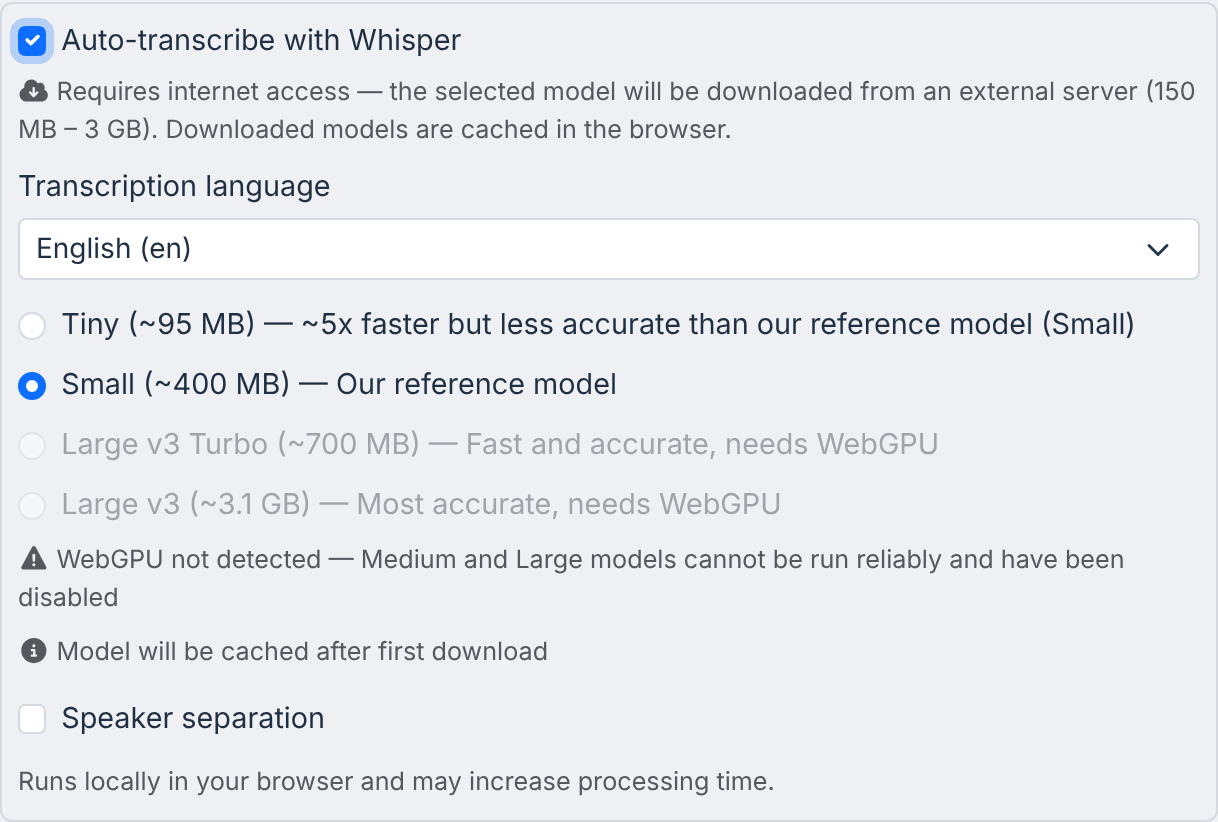
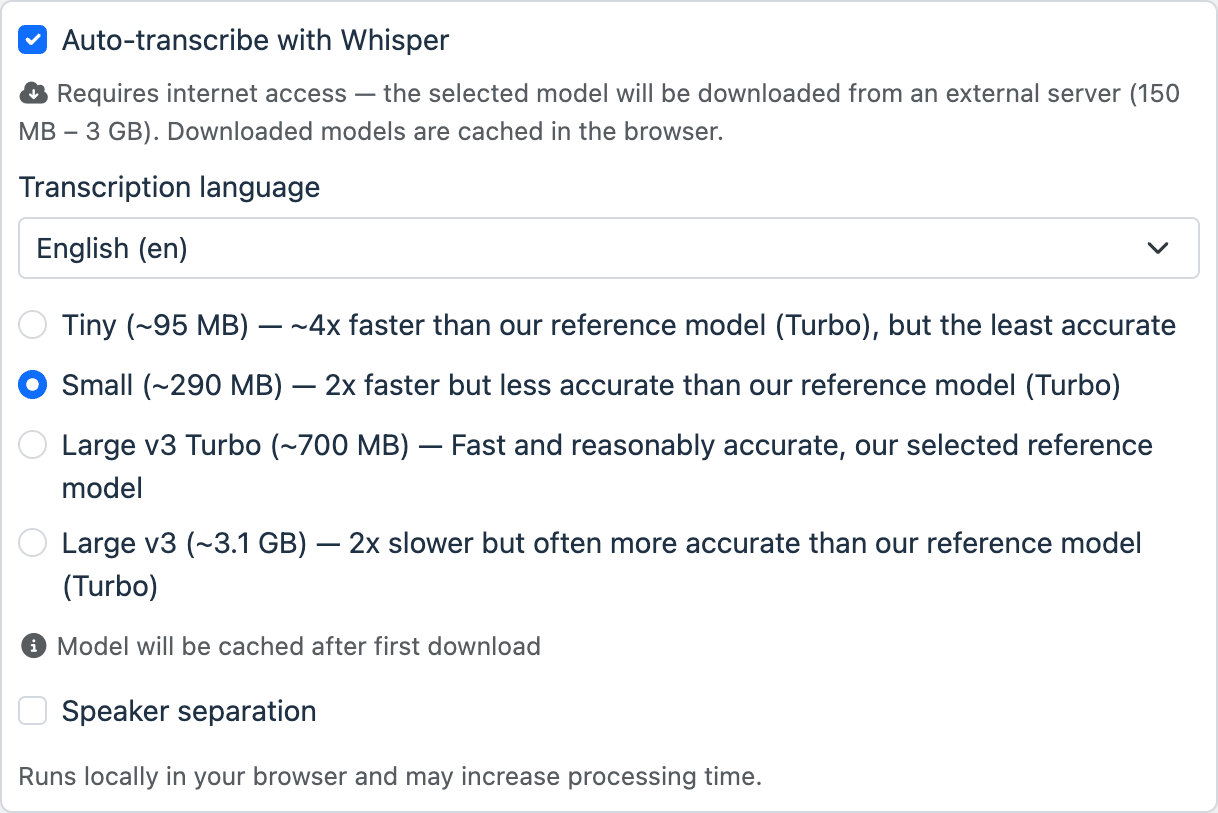
docs(manual): correct the tier menu and the Whisper model panel
The tier menu's "Add empty level" and "Add translated tier…" are not visible
entries: they sit behind the + button at the foot of the menu (navbar.component
.html, the ngbDropdown on .level-add-row). The bin icon is rendered only when
levels.length > 1, so with a single tier there is nothing to delete. Both tables
now say so, in English and Swedish.

Re-shoots visp_tratt_auto_transcription_options.png in a browser that has
WebGPU. The previous one came from the headless browser used for the other
screenshots, which has none: that greys out the two largest models and rewrites
every model description, so the picture showed a fallback state as if it were
the normal one. The surrounding text now says that TRATT reports only the
missing case, and that the reference model falls back without WebGPU.

Validated: 16 pages x 2 languages, all links/anchors/deep links resolve.

Claude-Session: https://claude.ai/code/session_01QQLU6CYqGJ5viv8qPtjfyj

diff --git a/docs/manual/automatic-transcription.md b/docs/manual/automatic-transcription.md
@@ -30,7 +30,7 @@ Under the drop zone, tick **Auto-transcribe with Whisper**, then set:
 2. **Model**: see the tables below.
 3. **Speaker separation** (optional): see [Speaker separation](#speaker-separation).
 
-![The automatic transcription options, here in a browser without WebGPU](../assets/visp_tratt_auto_transcription_options.png)
+![The automatic transcription options, with a model list for English](../assets/visp_tratt_auto_transcription_options.png)
 
 Then click **Start new transcription**. You will see, in order: the model download
 with a progress bar, *Transcribing audio…* with elapsed time and a progress bar
@@ -54,9 +54,11 @@ models for the Nordic languages.
 
 **If your machine has WebGPU** (recent Chrome, Edge or Firefox with a reasonable
 graphics card), all models are available and the larger ones are much faster.
-**Without WebGPU** the models run on the CPU instead: the biggest ones are
-disabled, and the rest are slow but usable. TRATT tells you which situation you are
-in under the model list.
+**Without WebGPU** the models run on the CPU instead: the biggest ones are greyed
+out, and the rest are slow but usable. TRATT says *WebGPU not detected* under the
+model list when that is the case, and says nothing when WebGPU is there. The model
+descriptions change with it: without WebGPU the reference model falls back to the
+largest one your machine can run.
 
 ### Swedish
 

diff --git a/docs/manual/sv/automatic-transcription.md b/docs/manual/sv/automatic-transcription.md
@@ -33,7 +33,7 @@ sedan in:
 3. **Speaker separation** (talarseparation, valfritt): se
    [Talarseparation](#speaker-separation).
 
-![Inställningarna för automatisk transkription, här i en webbläsare utan WebGPU](../../assets/visp_tratt_auto_transcription_options.png)
+![Inställningarna för automatisk transkription, med modellistan för engelska](../../assets/visp_tratt_auto_transcription_options.png)
 
 Klicka sedan **Starta ny transkription**. Du ser i tur och ordning:
 modellnedladdningen med förloppsfält, *Transkriberar ljud…* med förfluten tid och
@@ -57,9 +57,11 @@ modeller för de nordiska språken.
 
 **Om din dator har WebGPU** (aktuell Chrome, Edge eller Firefox med ett hyggligt
 grafikkort) är alla modeller tillgängliga och de större är mycket snabbare.
-**Utan WebGPU** körs modellerna på processorn i stället: de största inaktiveras,
-och resten är långsamma men användbara. TRATT talar om vilket läge du är i under
-modellistan.
+**Utan WebGPU** körs modellerna på processorn i stället: de största gråmarkeras,
+och resten är långsamma men användbara. TRATT skriver *WebGPU not detected* under
+modellistan när det är så, och skriver ingenting när WebGPU finns.
+Modellbeskrivningarna ändras med detta: utan WebGPU blir jämförelsemodellen den
+största din dator klarar.
 
 ### Svenska
 

diff --git a/docs/manual/sv/tiers-and-speakers.md b/docs/manual/sv/tiers-and-speakers.md
@@ -26,9 +26,9 @@ Nivåmenyn sitter i den övre listen och visar den aktuella nivåns namn.
 | --- | --- |
 | Byta nivå | Öppna menyn och klicka på nivåns nummer |
 | Byta namn på en nivå | Skriv i dess namnfält och klicka utanför |
-| Lägga till en tom nivå | **Add empty level** längst ned i menyn |
-| Lägga till en översättningsnivå | **Add translated tier…**: se nedan |
-| Ta bort en nivå | Papperskorgsikonen på dess rad. TRATT frågar först; nivån och dess text försvinner permanent. |
+| Lägga till en tom nivå | **+** längst ned i menyn, sedan **Add empty level** |
+| Lägga till en översättningsnivå | **+**, sedan **Add translated tier…**: se nedan |
+| Ta bort en nivå | Papperskorgsikonen på dess rad, som bara syns när det finns mer än en nivå. TRATT frågar först; nivån och dess text försvinner permanent. |
 
 Bara nivåer av typen SEGMENT kan väljas för redigering; övriga visas gråmarkerade.
 

diff --git a/docs/manual/CONTRIBUTING.md b/docs/manual/CONTRIBUTING.md
@@ -191,9 +191,11 @@ How to reproduce them:
 - Viewport 1440 × 820 at a device pixel ratio of 2 for the editor pages, 1480 × 900
   for the Workbench, 1360 wide for the start page. **Below 1400 px the editor
   switcher collapses to icons**, so do not shoot the editor narrower than that.
-- The browser had no WebGPU, so the two largest Whisper models are greyed out in
-  `visp_tratt_auto_transcription_options.png`. The caption says so. Re-shoot it on
-  a WebGPU machine if you would rather show the other state.
+- `visp_tratt_auto_transcription_options.png` is the exception: the headless
+  browser has no WebGPU, which greys out the two largest Whisper models and
+  changes every model description, so that one was taken in a real Chrome with
+  WebGPU and cropped to the panel. It shows the English model list; the Nordic
+  languages get a different one.
 
 ## Caveats to delete when the app changes
 

diff --git a/docs/manual/tiers-and-speakers.md b/docs/manual/tiers-and-speakers.md
@@ -25,9 +25,9 @@ The tier menu sits in the top bar and shows the current tier's name.
 | --- | --- |
 | Switch tier | Open the menu and click the tier's number |
 | Rename a tier | Type in its name field and click away |
-| Add an empty tier | **Add empty level** at the bottom of the menu |
-| Add a translation tier | **Add translated tier…**, see below |
-| Delete a tier | The bin icon on its row. TRATT asks for confirmation; the tier and its text are gone permanently. |
+| Add an empty tier | **+** at the bottom of the menu, then **Add empty level** |
+| Add a translation tier | **+**, then **Add translated tier…**; see below |
+| Delete a tier | The bin icon on its row, which only appears once there is more than one tier. TRATT asks for confirmation; the tier and its text are gone permanently. |
 
 Only tiers of type SEGMENT can be selected for editing; others are shown greyed out.
 
